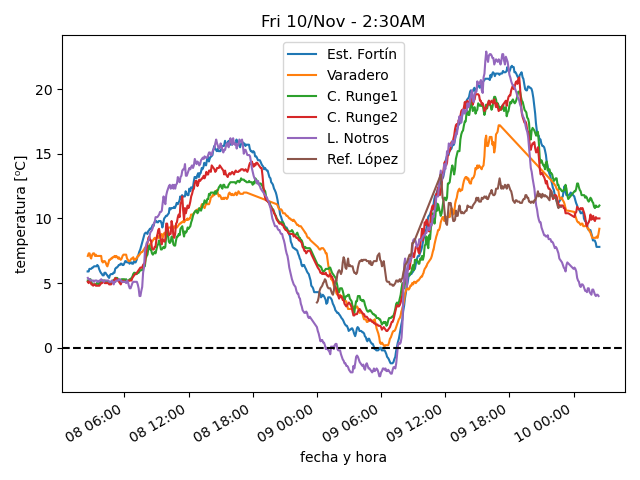
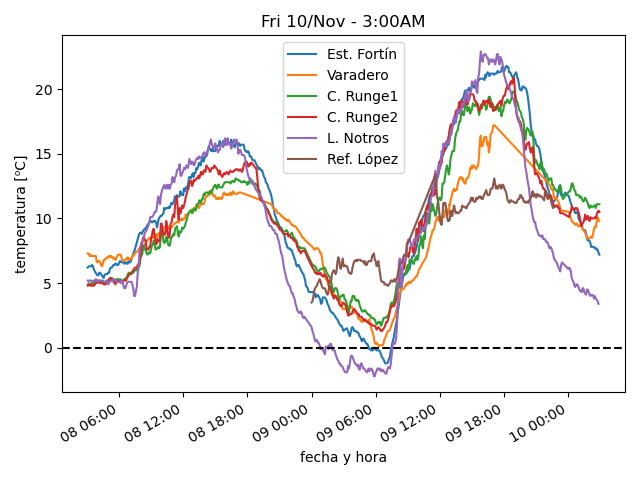
actualiza datos

diff --git a/estaciones/estacion4.html b/estaciones/estacion4.html
@@ -18,32 +18,32 @@
     </tr>
     <tr>
      <td class="stats_data">
-      2:24AM
+      2:54AM
      </td>
     </tr>
     <tr>
      <td class="stats_data">
-      10.0⁰C
+      10.5⁰C
      </td>
     </tr>
     <tr>
      <td class="stats_data">
-      3.8⁰C
+      4.1⁰C
      </td>
     </tr>
     <tr>
      <td class="stats_data">
-      65.3%
+      64.4%
      </td>
     </tr>
     <tr>
      <td class="stats_data">
-      1006.84hPa
+      1006.13hPa
      </td>
     </tr>
     <tr>
      <td class="stats_data">
-      1.0/1.6 km/hr SW
+      1.4/2.5 km/hr SW
      </td>
     </tr>
     <tr>

diff --git a/estaciones/estacion1.html b/estaciones/estacion1.html
@@ -18,32 +18,32 @@
     </tr>
     <tr>
      <td class="stats_data">
-      2:24AM
+      2:54AM
      </td>
     </tr>
     <tr>
      <td class="stats_data">
-      7.8⁰C
+      7.2⁰C
      </td>
     </tr>
     <tr>
      <td class="stats_data">
-      2.8⁰C
+      2.5⁰C
      </td>
     </tr>
     <tr>
      <td class="stats_data">
-      70.3%
+      71.7%
      </td>
     </tr>
     <tr>
      <td class="stats_data">
-      1004.74hPa
+      1004.06hPa
      </td>
     </tr>
     <tr>
      <td class="stats_data">
-      1.0/3.8 km/hr NE
+      0.0/2.7 km/hr NE
      </td>
     </tr>
     <tr>

diff --git a/estaciones/estacion2.html b/estaciones/estacion2.html
@@ -18,32 +18,32 @@
     </tr>
     <tr>
      <td class="stats_data">
-      2:24AM
+      2:54AM
      </td>
     </tr>
     <tr>
      <td class="stats_data">
-      9.2⁰C
+      9.8⁰C
      </td>
     </tr>
     <tr>
      <td class="stats_data">
-      2.7⁰C
+      3.6⁰C
      </td>
     </tr>
     <tr>
      <td class="stats_data">
-      63.6%
+      65.2%
      </td>
     </tr>
     <tr>
      <td class="stats_data">
-      1011.85hPa
+      1011.51hPa
      </td>
     </tr>
     <tr>
      <td class="stats_data">
-      1.4/2.1 km/hr SW
+      1.8/3.0 km/hr SW
      </td>
     </tr>
     <tr>

diff --git a/estaciones/estacion3.html b/estaciones/estacion3.html
@@ -18,32 +18,32 @@
     </tr>
     <tr>
      <td class="stats_data">
-      2:24AM
+      2:54AM
      </td>
     </tr>
     <tr>
      <td class="stats_data">
-      11.0⁰C
+      11.1⁰C
      </td>
     </tr>
     <tr>
      <td class="stats_data">
-      4.6⁰C
+      5.1⁰C
      </td>
     </tr>
     <tr>
      <td class="stats_data">
-      64.6%
+      66.5%
      </td>
     </tr>
     <tr>
      <td class="stats_data">
-      997.53hPa
+      997.22hPa
      </td>
     </tr>
     <tr>
      <td class="stats_data">
-      4.0/5.7 km/hr WNW
+      5.2/7.4 km/hr W
      </td>
     </tr>
     <tr>

diff --git a/estaciones/estacion5.html b/estaciones/estacion5.html
@@ -18,27 +18,27 @@
     </tr>
     <tr>
      <td class="stats_data">
-      2:20AM
+      2:50AM
      </td>
     </tr>
     <tr>
      <td class="stats_data">
-      4.0⁰C
+      3.4⁰C
      </td>
     </tr>
     <tr>
      <td class="stats_data">
-      1.1⁰C
+      0.7⁰C
      </td>
     </tr>
     <tr>
      <td class="stats_data">
-      81.0%
+      83.0%
      </td>
     </tr>
     <tr>
      <td class="stats_data">
-      1009.35hPa
+      1009.08hPa
      </td>
     </tr>
     <tr>
